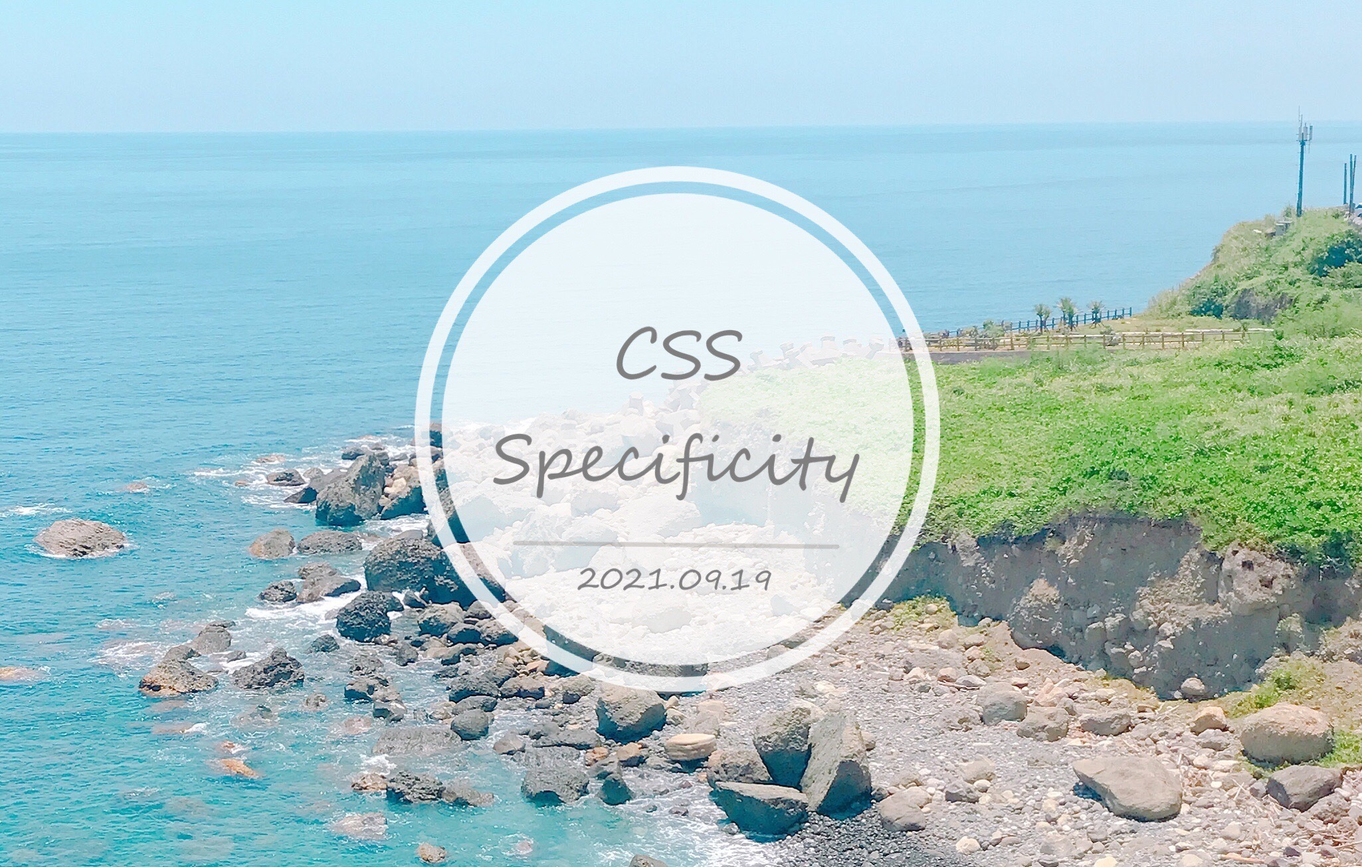
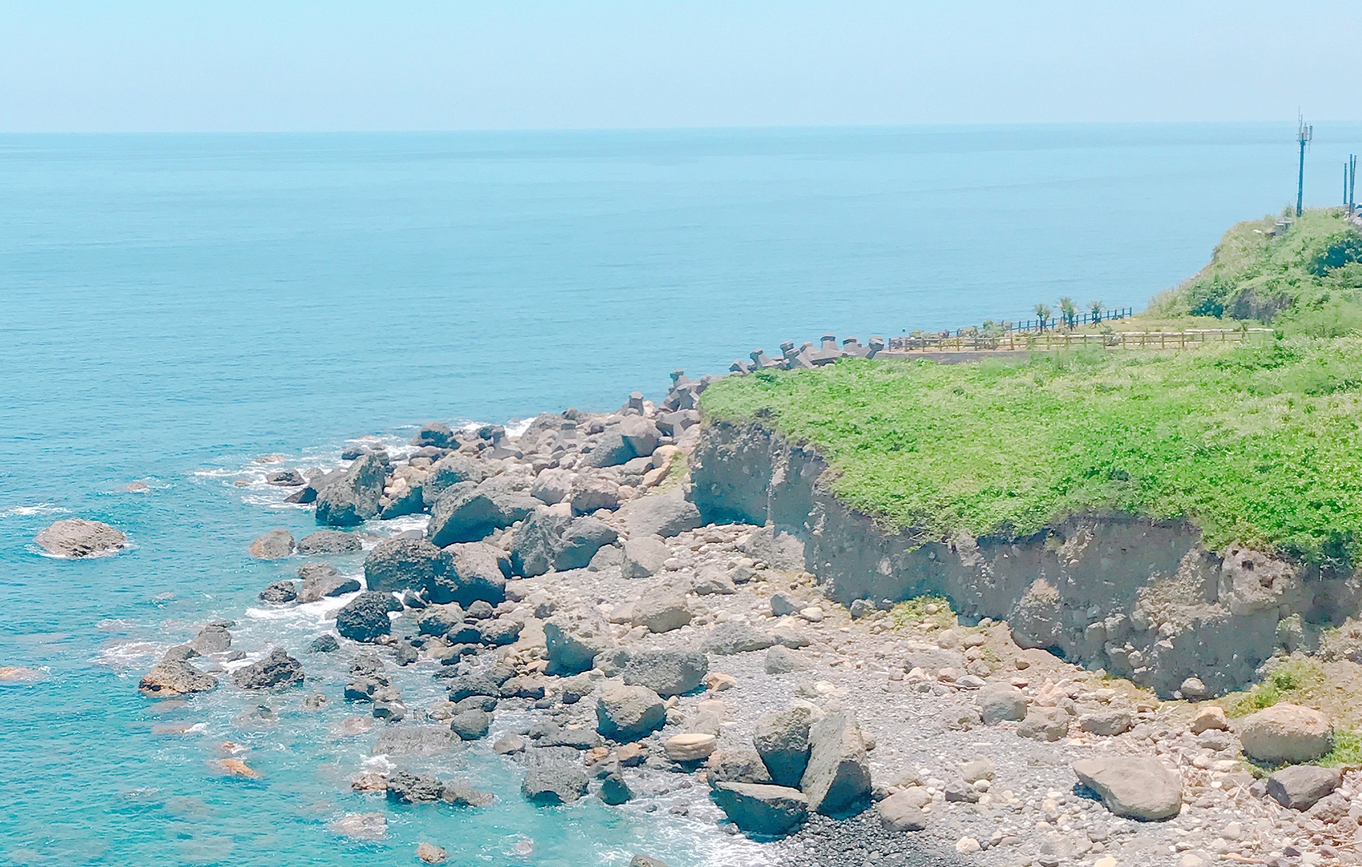
feat：調整文章圖片樣式

Changed region(s): [[0.281, 0.1839, 0.718, 0.7969]]

diff --git a/Content/css/style.css b/Content/css/style.css
@@ -74,7 +74,6 @@ header .header__nav ul{
 }
 header .header__nav ul li{
     margin: 0 0.75rem;
-    font-family: IndieFlower-Regular;
 }
 header .header__nav ul li a{
     transition: all 0.5s;
@@ -151,24 +150,60 @@ header .header__nav ul li a:hover{
     border-color: #ffebc4;
 }
 .body .content .article__img-box{
+    border-radius: 15px;
     display: block;
     position: relative;
     transition: all 0.5s;
+    padding-top: 60%;
+    background-repeat: no-repeat;
+    background-position: center;
+    background-size: cover;
+    background-color: #17223b;
 }
-.body .content .article__img{
-    display: block;
-    margin: 0 auto;
-    border-radius: 15px;
-    width: 90%;
+.body .content .article__img-content-box{
+    border: 10px solid #ffffffeb;
+    position: absolute;
+    top: 50%;
+    left: 50%;
+    transform: translate(-50%, -50%);
+    border-radius: 50%;
+    text-align: center;
+    width: 40%;
+    padding-top: calc(40% - 20px);
+}
+.body .content .article__img-content-box .article__img-content{
+    position: absolute;
+    flex-direction: column;
+    width: 97%;
+    height: 97%;
+    border-radius: 50%;
+    overflow: hidden;
+    background-color: #ffffffeb;
+    padding: 10px;
+    left: 50%;
+    top: 50%;
+    transform: translate(-50%, -50%);
+}
+.body .content .article__img-content-box .article__img-content .img-content_content{
+    font-size: 1.7rem;
+}
+.body .content .article__img-content-box .article__img-content hr{
+    width: 85%;
+    border: 2px solid #c5c5c5ad;
+    border-radius: 20px;
+    margin: 0.7rem 0;
+}
+.body .content .article__img-content-box .article__img-content .img-content_create-time{
+    font-size: 1.2rem;
 }
 .body .content .article__img-place-name{
     position: absolute;
     bottom: 0;
-    margin: 0px 5%;
+    margin: 0px;
     right: 0;
     text-align: right;
-    background: radial-gradient(ellipse 65% 100% at center,#ffffff,#c3c3c345);
-    padding: 0.2rem 1.5rem;
+    background: radial-gradient(ellipse 100% 100% at center,#ffffff,#c3c3c375);
+    padding: 0.2rem 0.5rem;
     color: #868585;
     border-radius: 15px 0 15px 0;
 }
@@ -176,7 +211,7 @@ header .header__nav ul li a:hover{
     width: 80%;
 }
 .body .list_content .article__img-place-name{
-    margin: 0px 10%;
+    margin: 0px;
 }
 .body .content .article__img-box:hover{
     filter:brightness(1.1)
@@ -489,6 +524,9 @@ footer .footer-ul a{
         border: none;
         border-bottom: 1px solid #ffe4c4;
     }
+    .body .content .article__img-box{
+        padding-top: 55%;
+    }
     .body .sidebar{
         width: 100%;
         margin-bottom: 1.5rem;
@@ -519,6 +557,16 @@ footer .footer-ul a{
     .body .content .article__content{
         width: 100%;
         min-width: 450px;
+    }
+    .body .content .article__img-content-box{
+        width: 50%;
+        padding-top: calc(50% - 20px);
+    }
+    .body .content .article__img-content-box .article__img-content .img-content_content{
+        font-size: 1.4rem;
+    }
+    .body .content .article__img-content-box .article__img-content .img-content_create-time{
+        font-size: 1rem;
     }
     .body .content .article__img-place-name{
         margin: 0;

diff --git a/Category.html b/Category.html
@@ -40,9 +40,7 @@
                 <div class="article" v-if="PageArticle.length == 0">
                     <a class="article__title">小弟還在努力學習中</a>
                     <hr class="article__line">
-                    <a>
-                        <img src="/Content/img/nothing.jpg" class="article__img" alt="目前尚未撰寫文章">
-                    </a>
+                    <a class="article__img-box" style="background-image: url(/Content/img/nothing.jpg)"></a>
                 </div>
                 <div class="article" v-for="article in PageArticle[CurrentPage]">
                     <a :href="article.article_route" class="article__title">{{ article.title }}</a>
@@ -55,9 +53,17 @@
                             </li>
                         </ul>
                     </div>
-                    <a class="article__img-box" :href="article.article_route">
-                        <img :src="article.img_route" class="article__img">
-                        <p class="article__img-place-name" v-if="article.img_place_name != 'none'">{{ article.img_place_name }}</p>
+                    <a class="article__img-box" :href="article.article_route" :style="{ 'background-image': 'url(' + article.img_route + ')' }">
+                        <div class="article__img-content-box">
+                            <div class="article__img-content flex-center">
+                                <div class="img-content_content" v-html="article.img_content"></div>
+                                <hr>
+                                <div class="img-content_create-time">
+                                    {{ article.create_time }}
+                                </div>
+                            </div>
+                        </div>
+                        <p class="article__img-place-name" v-if="article.img_place_name != 'none' && article.img_place_name != ''">{{ article.img_place_name }}</p>
                     </a>
                 </div>
                 <div class="page-box">

diff --git a/Tag.html b/Tag.html
@@ -40,9 +40,7 @@
                 <div class="article" v-if="PageArticle.length == 0">
                     <a class="article__title">小弟還在努力學習中</a>
                     <hr class="article__line">
-                    <a>
-                        <img src="/Content/img/nothing.jpg" class="article__img" alt="目前尚未撰寫文章">
-                    </a>
+                    <a class="article__img-box" style="background-image: url(/Content/img/nothing.jpg)"></a>
                 </div>
                 <div class="article" v-for="article in PageArticle[CurrentPage]">
                     <a :href="article.article_route" class="article__title">{{ article.title }}</a>
@@ -55,9 +53,17 @@
                             </li>
                         </ul>
                     </div>
-                    <a class="article__img-box" :href="article.article_route">
-                        <img :src="article.img_route" class="article__img">
-                        <p class="article__img-place-name" v-if="article.img_place_name != 'none'">{{ article.img_place_name }}</p>
+                    <a class="article__img-box" :href="article.article_route" :style="{ 'background-image': 'url(' + article.img_route + ')' }">
+                        <div class="article__img-content-box">
+                            <div class="article__img-content flex-center">
+                                <div class="img-content_content" v-html="article.img_content"></div>
+                                <hr>
+                                <div class="img-content_create-time">
+                                    {{ article.create_time }}
+                                </div>
+                            </div>
+                        </div>
+                        <p class="article__img-place-name" v-if="article.img_place_name != 'none' && article.img_place_name != ''">{{ article.img_place_name }}</p>
                     </a>
                 </div>
                 <div class="page-box">

diff --git a/index.html b/index.html
@@ -37,13 +37,6 @@
         <header></header>
         <div class="body" v-cloak>
             <div class="content list_content">
-                <div class="article" v-if="PageArticle.length == 0">
-                    <a @click="GetPages" class="article__title">小弟還在努力學習中</a>
-                    <hr class="article__line">
-                    <a @click="GetPages">
-                        <img src="/Content/img/nothing.jpg" class="article__img" alt="目前尚未撰寫文章">
-                    </a>
-                </div>
                 <div class="article" v-for="article in PageArticle[CurrentPage]">
                     <a :href="article.article_route" class="article__title">{{ article.title }}</a>
                     <hr class="article__line">
@@ -55,8 +48,16 @@
                             </li>
                         </ul>
                     </div>
-                    <a class="article__img-box" :href="article.article_route">
-                        <img :src="article.img_route" class="article__img">
+                    <a class="article__img-box" :href="article.article_route" :style="{ 'background-image': 'url(' + article.img_route + ')' }">
+                        <div class="article__img-content-box">
+                            <div class="article__img-content flex-center">
+                                <div class="img-content_content" v-html="article.img_content"></div>
+                                <hr>
+                                <div class="img-content_create-time">
+                                    {{ article.create_time }}
+                                </div>
+                            </div>
+                        </div>
                         <p class="article__img-place-name" v-if="article.img_place_name != 'none' && article.img_place_name != ''">{{ article.img_place_name }}</p>
                     </a>
                 </div>

diff --git a/Article/2021/08/demo.html b/Article/2021/08/demo.html
@@ -54,9 +54,17 @@
                             </li>
                         </ul>
                     </div>
-                    <a class="article__img-box">
-                        <img :src="CurrentArticle.img_route" class="article__img">
-                        <p class="article__img-place-name" v-if="CurrentArticle.img_place_name != 'none'">{{ CurrentArticle.img_place_name }}</p>
+                    <a class="article__img-box" :style="{ 'background-image': 'url(' + CurrentArticle.img_route + ')' }">
+                        <div class="article__img-content-box">
+                            <div class="article__img-content flex-center">
+                                <div class="img-content_content" v-html="CurrentArticle.img_content"></div>
+                                <hr>
+                                <div class="img-content_create-time">
+                                    {{ CurrentArticle.create_time }}
+                                </div>
+                            </div>
+                        </div>
+                        <p class="article__img-place-name" v-if="CurrentArticle.img_place_name != 'none' && CurrentArticle.img_place_name != ''">{{ CurrentArticle.img_place_name }}</p>
                     </a>
                     <div class="article__content">
                         <!-- 文章內容 start -->

diff --git a/Article/2021/09/CSS_Specificity.html b/Article/2021/09/CSS_Specificity.html
@@ -54,9 +54,17 @@
                             </li>
                         </ul>
                     </div>
-                    <a class="article__img-box">
-                        <img :src="CurrentArticle.img_route" class="article__img">
-                        <p class="article__img-place-name" v-if="CurrentArticle.img_place_name != 'none'">{{ CurrentArticle.img_place_name }}</p>
+                    <a class="article__img-box" :style="{ 'background-image': 'url(' + CurrentArticle.img_route + ')' }">
+                        <div class="article__img-content-box">
+                            <div class="article__img-content flex-center">
+                                <div class="img-content_content" v-html="CurrentArticle.img_content"></div>
+                                <hr>
+                                <div class="img-content_create-time">
+                                    {{ CurrentArticle.create_time }}
+                                </div>
+                            </div>
+                        </div>
+                        <p class="article__img-place-name" v-if="CurrentArticle.img_place_name != 'none' && CurrentArticle.img_place_name != ''">{{ CurrentArticle.img_place_name }}</p>
                     </a>
                     <div class="article__content">
                         <!-- 文章內容 start -->

diff --git a/Article/2021/10/PHP_inculd&require.html b/Article/2021/10/PHP_inculd&require.html
@@ -54,9 +54,17 @@
                             </li>
                         </ul>
                     </div>
-                    <a class="article__img-box">
-                        <img :src="CurrentArticle.img_route" class="article__img">
-                        <p class="article__img-place-name" v-if="CurrentArticle.img_place_name != 'none'">{{ CurrentArticle.img_place_name }}</p>
+                    <a class="article__img-box" :style="{ 'background-image': 'url(' + CurrentArticle.img_route + ')' }">
+                        <div class="article__img-content-box">
+                            <div class="article__img-content flex-center">
+                                <div class="img-content_content" v-html="CurrentArticle.img_content"></div>
+                                <hr>
+                                <div class="img-content_create-time">
+                                    {{ CurrentArticle.create_time }}
+                                </div>
+                            </div>
+                        </div>
+                        <p class="article__img-place-name" v-if="CurrentArticle.img_place_name != 'none' && CurrentArticle.img_place_name != ''">{{ CurrentArticle.img_place_name }}</p>
                     </a>
                     <div class="article__content">
                         <!-- 文章內容 start -->

diff --git a/Content/js/ArticleList/ArticleList.js b/Content/js/ArticleList/ArticleList.js
@@ -3,6 +3,7 @@ const Article = {
     //     title : "Demo",
     //     tag : ["html","css"],
     //     category : "front_end",
+    //     img_content : "Demo",
     //     create_time : "2021/08/14",
     //     img_route : "/Content/img/Article/2021/08/Demo/Demo.jpg",
     //     img_place_name : "none",//圖片地名，none不顯示
@@ -13,7 +14,8 @@ const Article = {
         tag : ["php"],
         category : "rear_end",
         create_time : "2021/10/09",
-        img_route : "/Content/img/Article/2021/10/PHP_inculd&require/PHP_inculd&require.jpg",
+        img_content : "inculd</br>&</br>require",
+        img_route : "/Content/img/Article/2021/10/PHP_inculd&require/PHP_inculd&require.png?v=1",
         img_place_name : "花蓮清水斷崖",
         article_route:"/Article/2021/10/PHP_inculd&require.html",
     },
@@ -22,7 +24,8 @@ const Article = {
         tag : ["css"],
         category : "front_end",
         create_time : "2021/09/19",
-        img_route : "/Content/img/Article/2021/09/CSS_Specificity/CSS_Specificity.jpg",
+        img_content : "CSS</br>Specificity",
+        img_route : "/Content/img/Article/2021/09/CSS_Specificity/CSS_Specificity.jpg?v=1",
         img_place_name : "花蓮",
         article_route:"/Article/2021/09/CSS_Specificity.html",
     },
